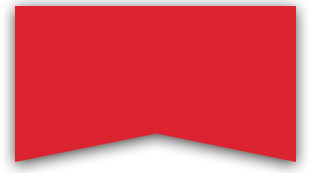
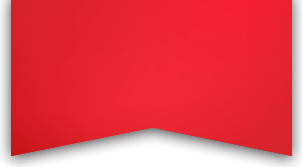
ie6兼容

diff --git a/css/xmnn.css b/css/xmnn.css
@@ -111,7 +111,7 @@ strong{font-weight:bold;}
 #h,#b,#f{width:1202px; margin:0 auto;}
 #h{position:relative; background:#fff;}
 #h .r1{background:url(../img/h-r1.png) repeat-x; position:absolute; z-index:999; width:100%; top:53px;}
-#h .r1 .c1{ background:url(../img/h-r1-c1.png) no-repeat; width:309px; height:182px; position:absolute; left:96px; top:-59px;}
+#h .r1 .c1{ background:url(../img/h-r1-c1.png) no-repeat; width:309px; height:182px; position:absolute; left:96px; top:-53px;}
 #h .r1 .c1 a{display:block;width:253px; height:71px; margin-left:25px; margin-top:37px; background:url(../img/h-r1-c1-a.png) no-repeat;}
 .nav{color:#fff; margin-left:338px; padding:16px 0;}
 .nav a{color:#fff;}

diff --git a/js/ie6.js b/js/ie6.js
@@ -1,1 +1,1 @@
-DD_belatedPNG.fix('#f .r1 .c2 a,#h .r1 .c1 a,#h .r1 .c1');
+DD_belatedPNG.fix('#f .r1 .c2 a,#h .r1 .c1 a,#h .r1 .c1,.m5 .bg');
